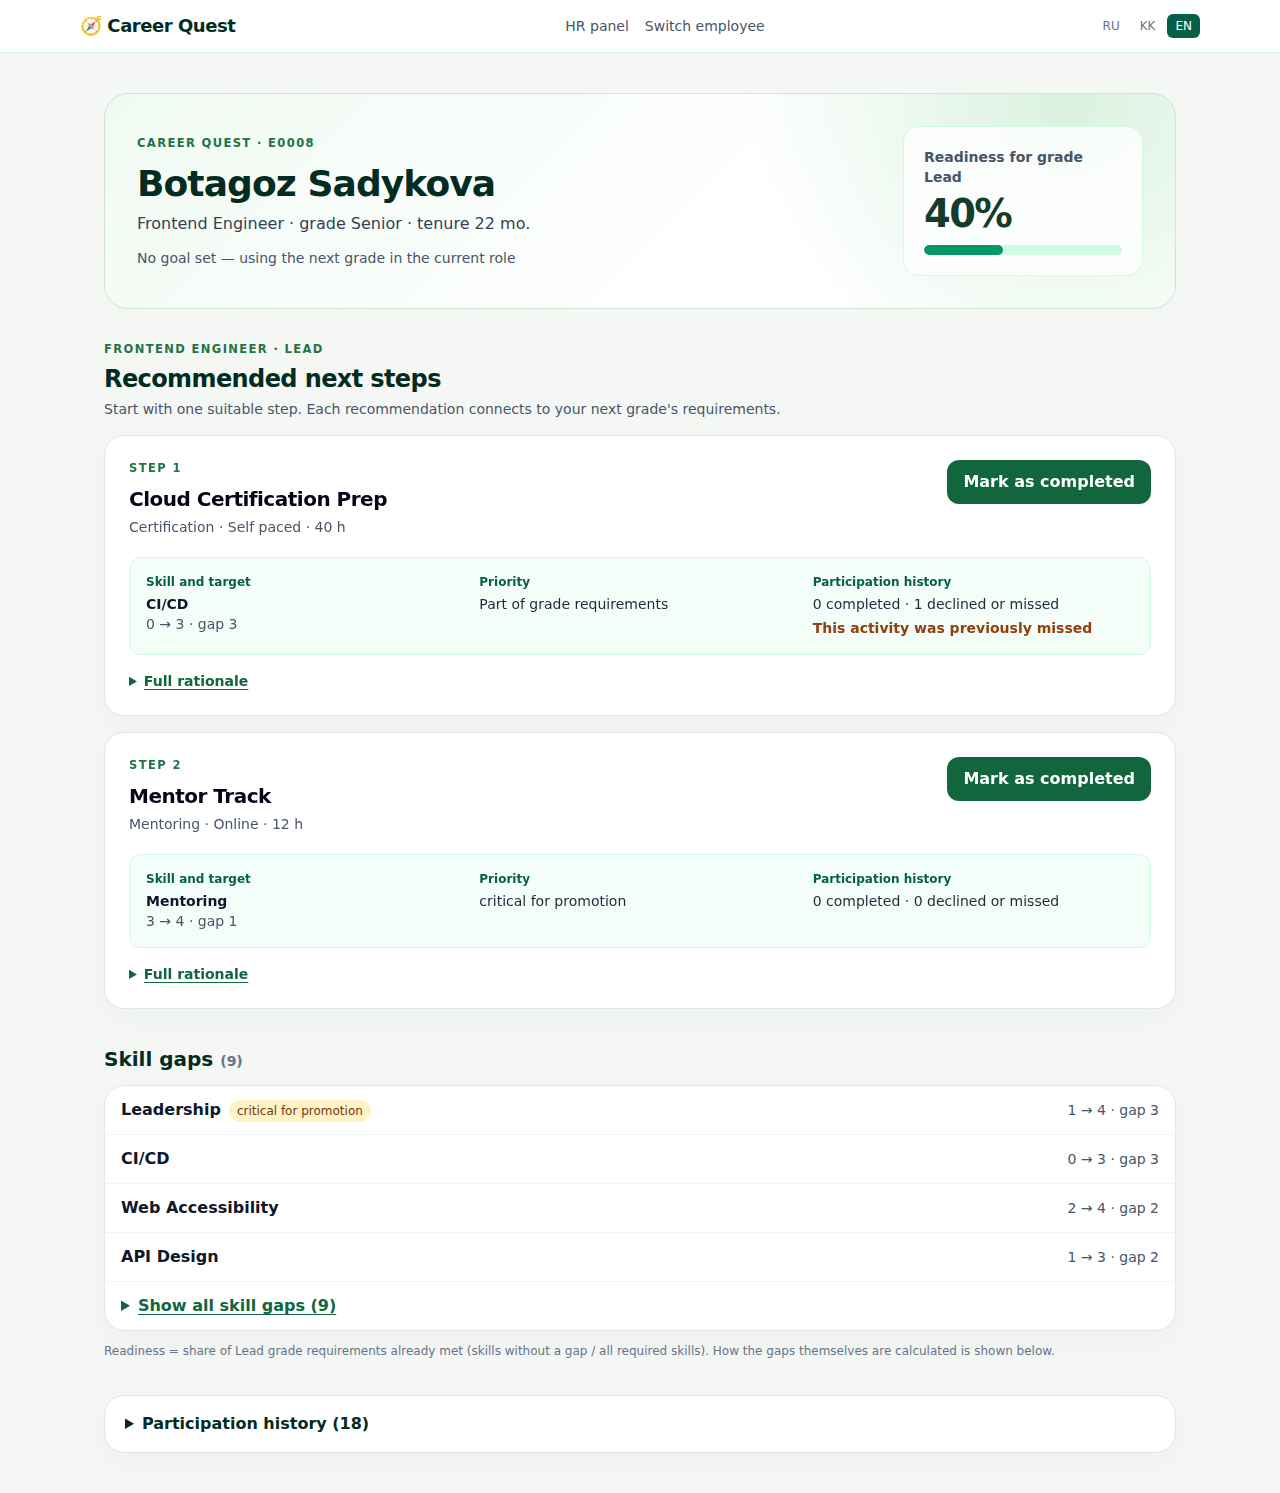
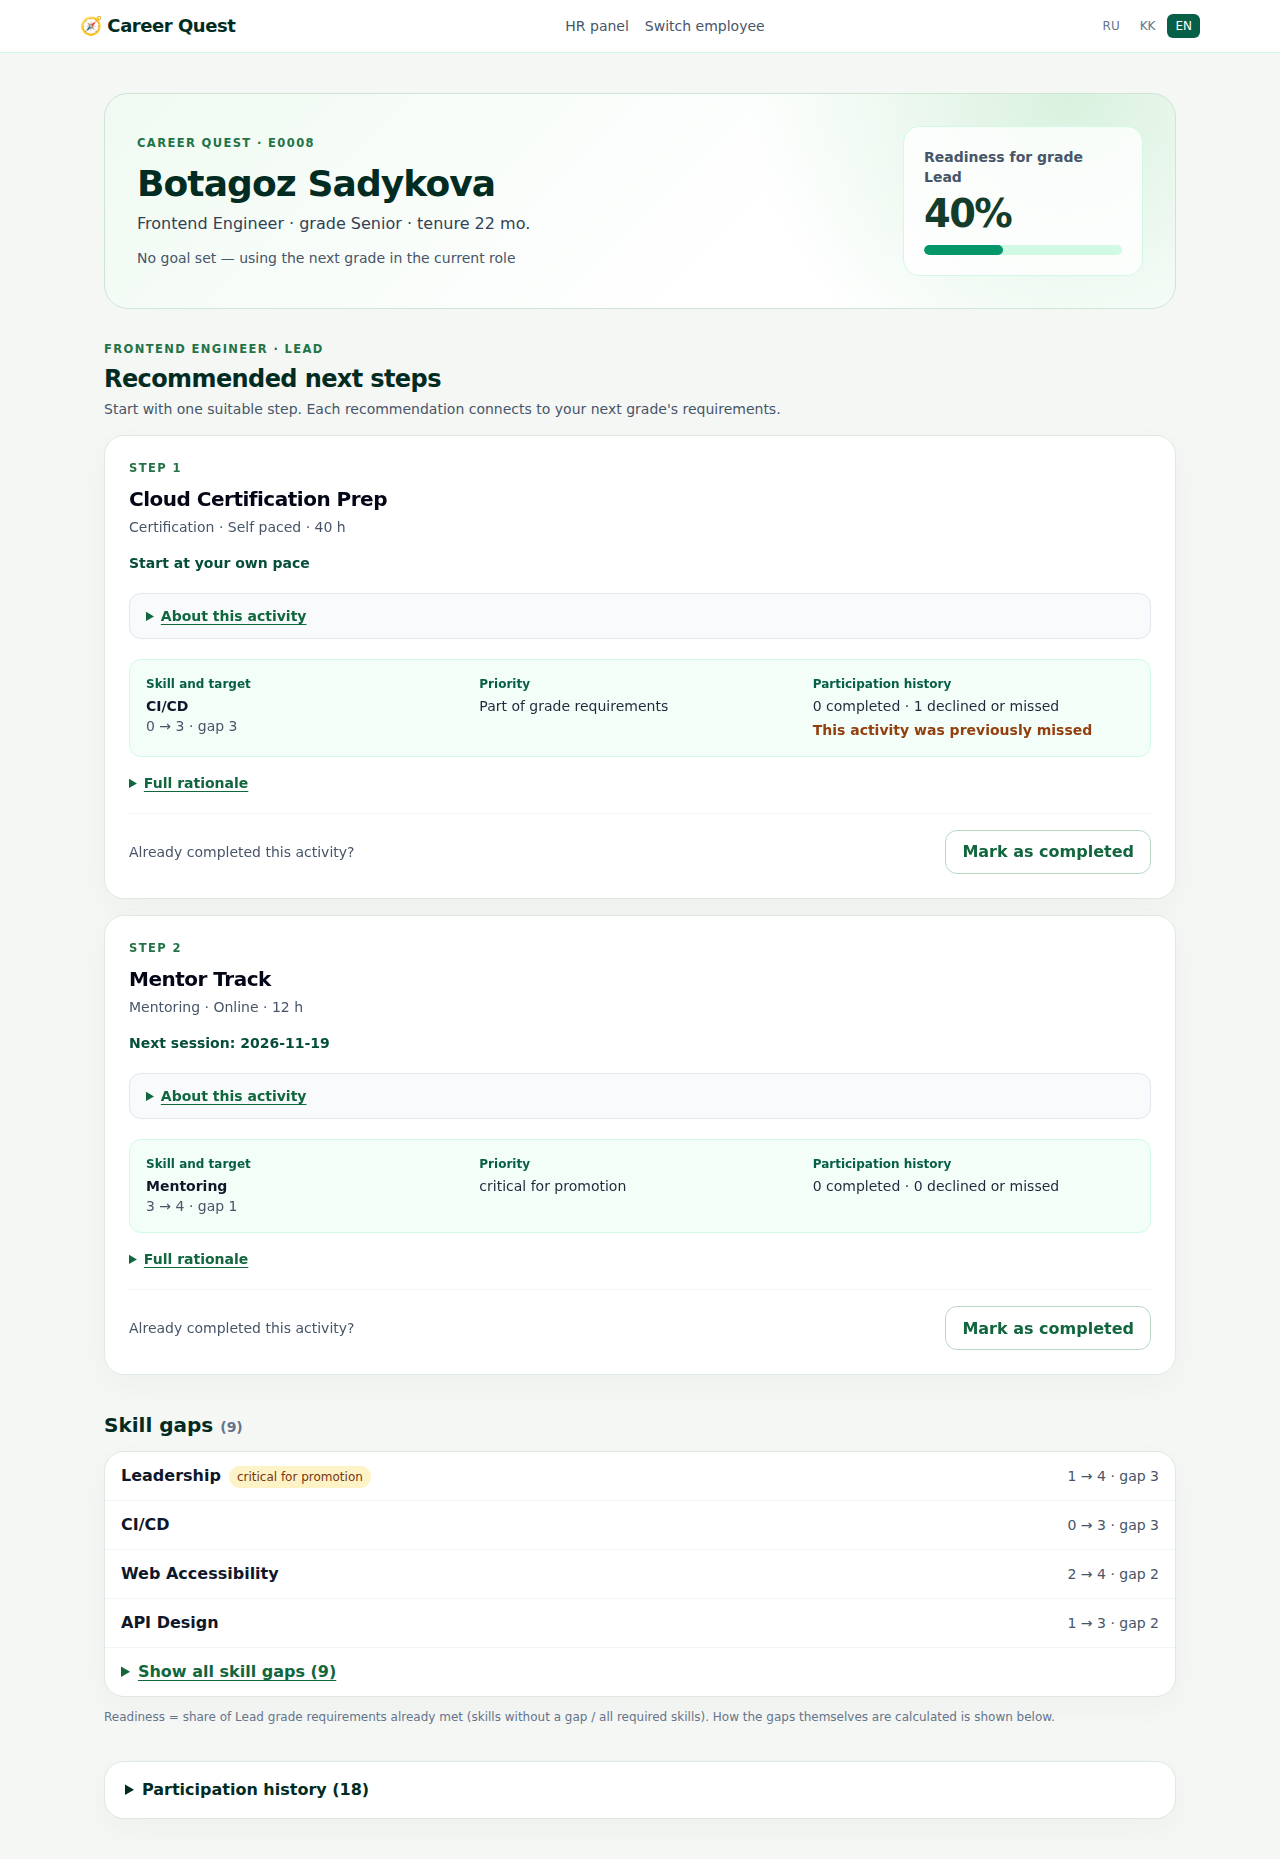
улучшил карточки рекомендованных шагов

diff --git a/backend/app/templates/employee.html b/backend/app/templates/employee.html
@@ -48,16 +48,33 @@
   <div class="space-y-4">
     {% for step in steps %}
     <article class="surface reveal p-5 sm:p-6" style="animation-delay: {{ loop.index0 * 70 }}ms">
-      <div class="flex flex-col sm:flex-row sm:items-start sm:justify-between gap-4 mb-5">
+      <div class="mb-5">
         <div class="min-w-0">
           <p class="eyebrow mb-2">{{ t('step_number', number=loop.index) }}</p>
           <h3 class="text-xl font-bold tracking-tight text-slate-950">{{ step.event.title }}</h3>
           <p class="text-sm text-slate-600 mt-1">{{ t('event_type_' ~ step.event.type) }} · {{ t('event_format_' ~ step.event.format) }} · {{ step.event.duration_hours }} {{ t('duration_hours') }}</p>
         </div>
-        <form method="post" action="/employee/{{ emp.employee_id }}/complete/{{ step.event.event_id }}">
-          <button class="action-button w-full sm:w-auto">{{ t('complete_btn') }}</button>
-        </form>
+        <p class="mt-4 text-sm font-semibold text-emerald-900">
+          {% if step.next_session %}
+            {{ t('next_session') }}: <time datetime="{{ step.next_session }}">{{ step.next_session }}</time>
+          {% elif step.event.format == 'self_paced' %}
+            {{ t('session_self_paced') }}
+          {% else %}
+            {{ t('session_unavailable') }}
+          {% endif %}
+        </p>
       </div>
+      <details class="mb-5 rounded-xl border border-slate-200 bg-slate-50 px-4 py-3 text-sm">
+        <summary class="soft-link cursor-pointer">{{ t('activity_details') }}</summary>
+        <div class="mt-3 text-slate-700 leading-relaxed">
+          <p class="font-semibold text-slate-900 mb-1">{{ t('activity_description') }}</p>
+          <p>{{ step.event.description }}</p>
+          {% if step.sessions|length > 1 %}
+          <p class="font-semibold text-slate-900 mt-3 mb-1">{{ t('session_dates') }}</p>
+          <p>{{ step.sessions|join(' · ') }}</p>
+          {% endif %}
+        </div>
+      </details>
       <div class="space-y-2">
         {% for skill in step.skills %}
         {% set avoided = skill.history.declined + skill.history.no_show + skill.history.dropped %}
@@ -73,6 +90,12 @@
         <p class="text-slate-700 mt-3 leading-relaxed">{{ step.rationale.text }}</p>
         <p class="text-xs text-slate-500 mt-2">{{ t('rationale_source_label') }} {{ t('rationale_source_llm') if step.rationale.source == 'llm-agentic' else t('rationale_source_template') }}</p>
       </details>
+      <div class="mt-5 pt-4 border-t border-slate-100 flex flex-col sm:flex-row sm:items-center sm:justify-between gap-3">
+        <p class="text-sm text-slate-600">{{ t('complete_prompt') }}</p>
+        <form method="post" action="/employee/{{ emp.employee_id }}/complete/{{ step.event.event_id }}">
+          <button class="secondary-button w-full sm:w-auto">{{ t('complete_btn') }}</button>
+        </form>
+      </div>
     </article>
     {% endfor %}
   </div>

diff --git a/backend/app/templates/base.html b/backend/app/templates/base.html
@@ -15,12 +15,15 @@
     .eyebrow { color: #237347; font-size: .72rem; font-weight: 800; letter-spacing: .12em; text-transform: uppercase; }
     .action-button { display: inline-flex; align-items: center; justify-content: center; min-height: 44px; padding: .65rem 1rem; border-radius: 12px; background: #11663e; color: #fff; font-weight: 700; line-height: 1.2; transition: background-color .2s, transform .2s; }
     .action-button:hover { background: #0d4f31; transform: translateY(-1px); }
+    .secondary-button { display: inline-flex; align-items: center; justify-content: center; min-height: 44px; padding: .65rem 1rem; border: 1px solid #b9d8c3; border-radius: 12px; background: #fff; color: #11663e; font-weight: 700; line-height: 1.2; transition: background-color .2s; }
+    .secondary-button:hover { background: #f0faf2; }
     .action-button:focus-visible, a:focus-visible, summary:focus-visible, input:focus-visible { outline: 3px solid #f2b544; outline-offset: 3px; }
+    .secondary-button:focus-visible { outline: 3px solid #f2b544; outline-offset: 3px; }
     .soft-link { color: #11663e; font-weight: 700; text-decoration: underline; text-underline-offset: 3px; }
     .metric-number { color: #153c2a; font-size: clamp(1.7rem, 3vw, 2.5rem); font-weight: 800; letter-spacing: -.04em; line-height: 1; }
     .reveal { animation: rise-in .35s ease-out both; }
     @keyframes rise-in { from { opacity: 0; transform: translateY(8px); } to { opacity: 1; transform: translateY(0); } }
-    @media (prefers-reduced-motion: reduce) { .reveal { animation: none; } .action-button { transition: none; } .action-button:hover { transform: none; } }
+    @media (prefers-reduced-motion: reduce) { .reveal { animation: none; } .action-button, .secondary-button { transition: none; } .action-button:hover { transform: none; } }
   </style>
 </head>
 <body class="text-slate-900 min-h-screen antialiased">

diff --git a/backend/app/i18n.py b/backend/app/i18n.py
@@ -122,6 +122,25 @@ _T: dict[str, dict[str, str]] = {
     "event_format_online": {"ru": "Онлайн", "kk": "Онлайн", "en": "Online"},
     "event_format_offline": {"ru": "Очно", "kk": "Офлайн", "en": "In person"},
     "event_format_self_paced": {"ru": "В своём темпе", "kk": "Өз қарқыныңызбен", "en": "Self paced"},
+    "activity_details": {"ru": "Подробнее о мероприятии", "kk": "Іс-шара туралы толығырақ", "en": "About this activity"},
+    "activity_description": {"ru": "Что вас ждёт", "kk": "Не күтіп тұр", "en": "What to expect"},
+    "next_session": {"ru": "Ближайшая сессия", "kk": "Ең жақын сессия", "en": "Next session"},
+    "session_dates": {"ru": "Доступные даты", "kk": "Қолжетімді күндер", "en": "Available dates"},
+    "session_self_paced": {
+        "ru": "Можно начать в своём темпе",
+        "kk": "Өз қарқыныңызбен бастауға болады",
+        "en": "Start at your own pace",
+    },
+    "session_unavailable": {
+        "ru": "Новых сессий пока нет",
+        "kk": "Жаңа сессиялар әзірге жоқ",
+        "en": "No upcoming sessions yet",
+    },
+    "complete_prompt": {
+        "ru": "Уже прошли активность?",
+        "kk": "Іс-шарадан өтіп қойдыңыз ба?",
+        "en": "Already completed this activity?",
+    },
     "steps_none": {
         "ru": "Подходящих добровольных активностей под текущие разрывы не найдено.",
         "kk": "Ағымдағы олқылықтарға сәйкес ерікті іс-шаралар табылмады.",

diff --git a/backend/app/main.py b/backend/app/main.py
@@ -169,17 +169,21 @@ def employee_page(request: Request, employee_id: str):
     deadline = _time.monotonic() + 8.0
 
     steps_view = []
+    today = datetime.date.today().isoformat()
     for step in result["steps"]:
         named_step = {
             **step,
             "skills": [{**skill, "skill_name": _skill_name(skill["skill_id"])} for skill in step["skills"]],
         }
         rationale = _rationale_for(emp, result["target_grade"], named_step, deadline)
+        sessions = sorted(date for date in step["event"].get("upcoming_sessions", []) if date >= today)
         steps_view.append(
             {
                 "event": step["event"],
                 "skills": named_step["skills"],
                 "rationale": rationale,
+                "sessions": sessions,
+                "next_session": sessions[0] if sessions else None,
             }
         )
 
